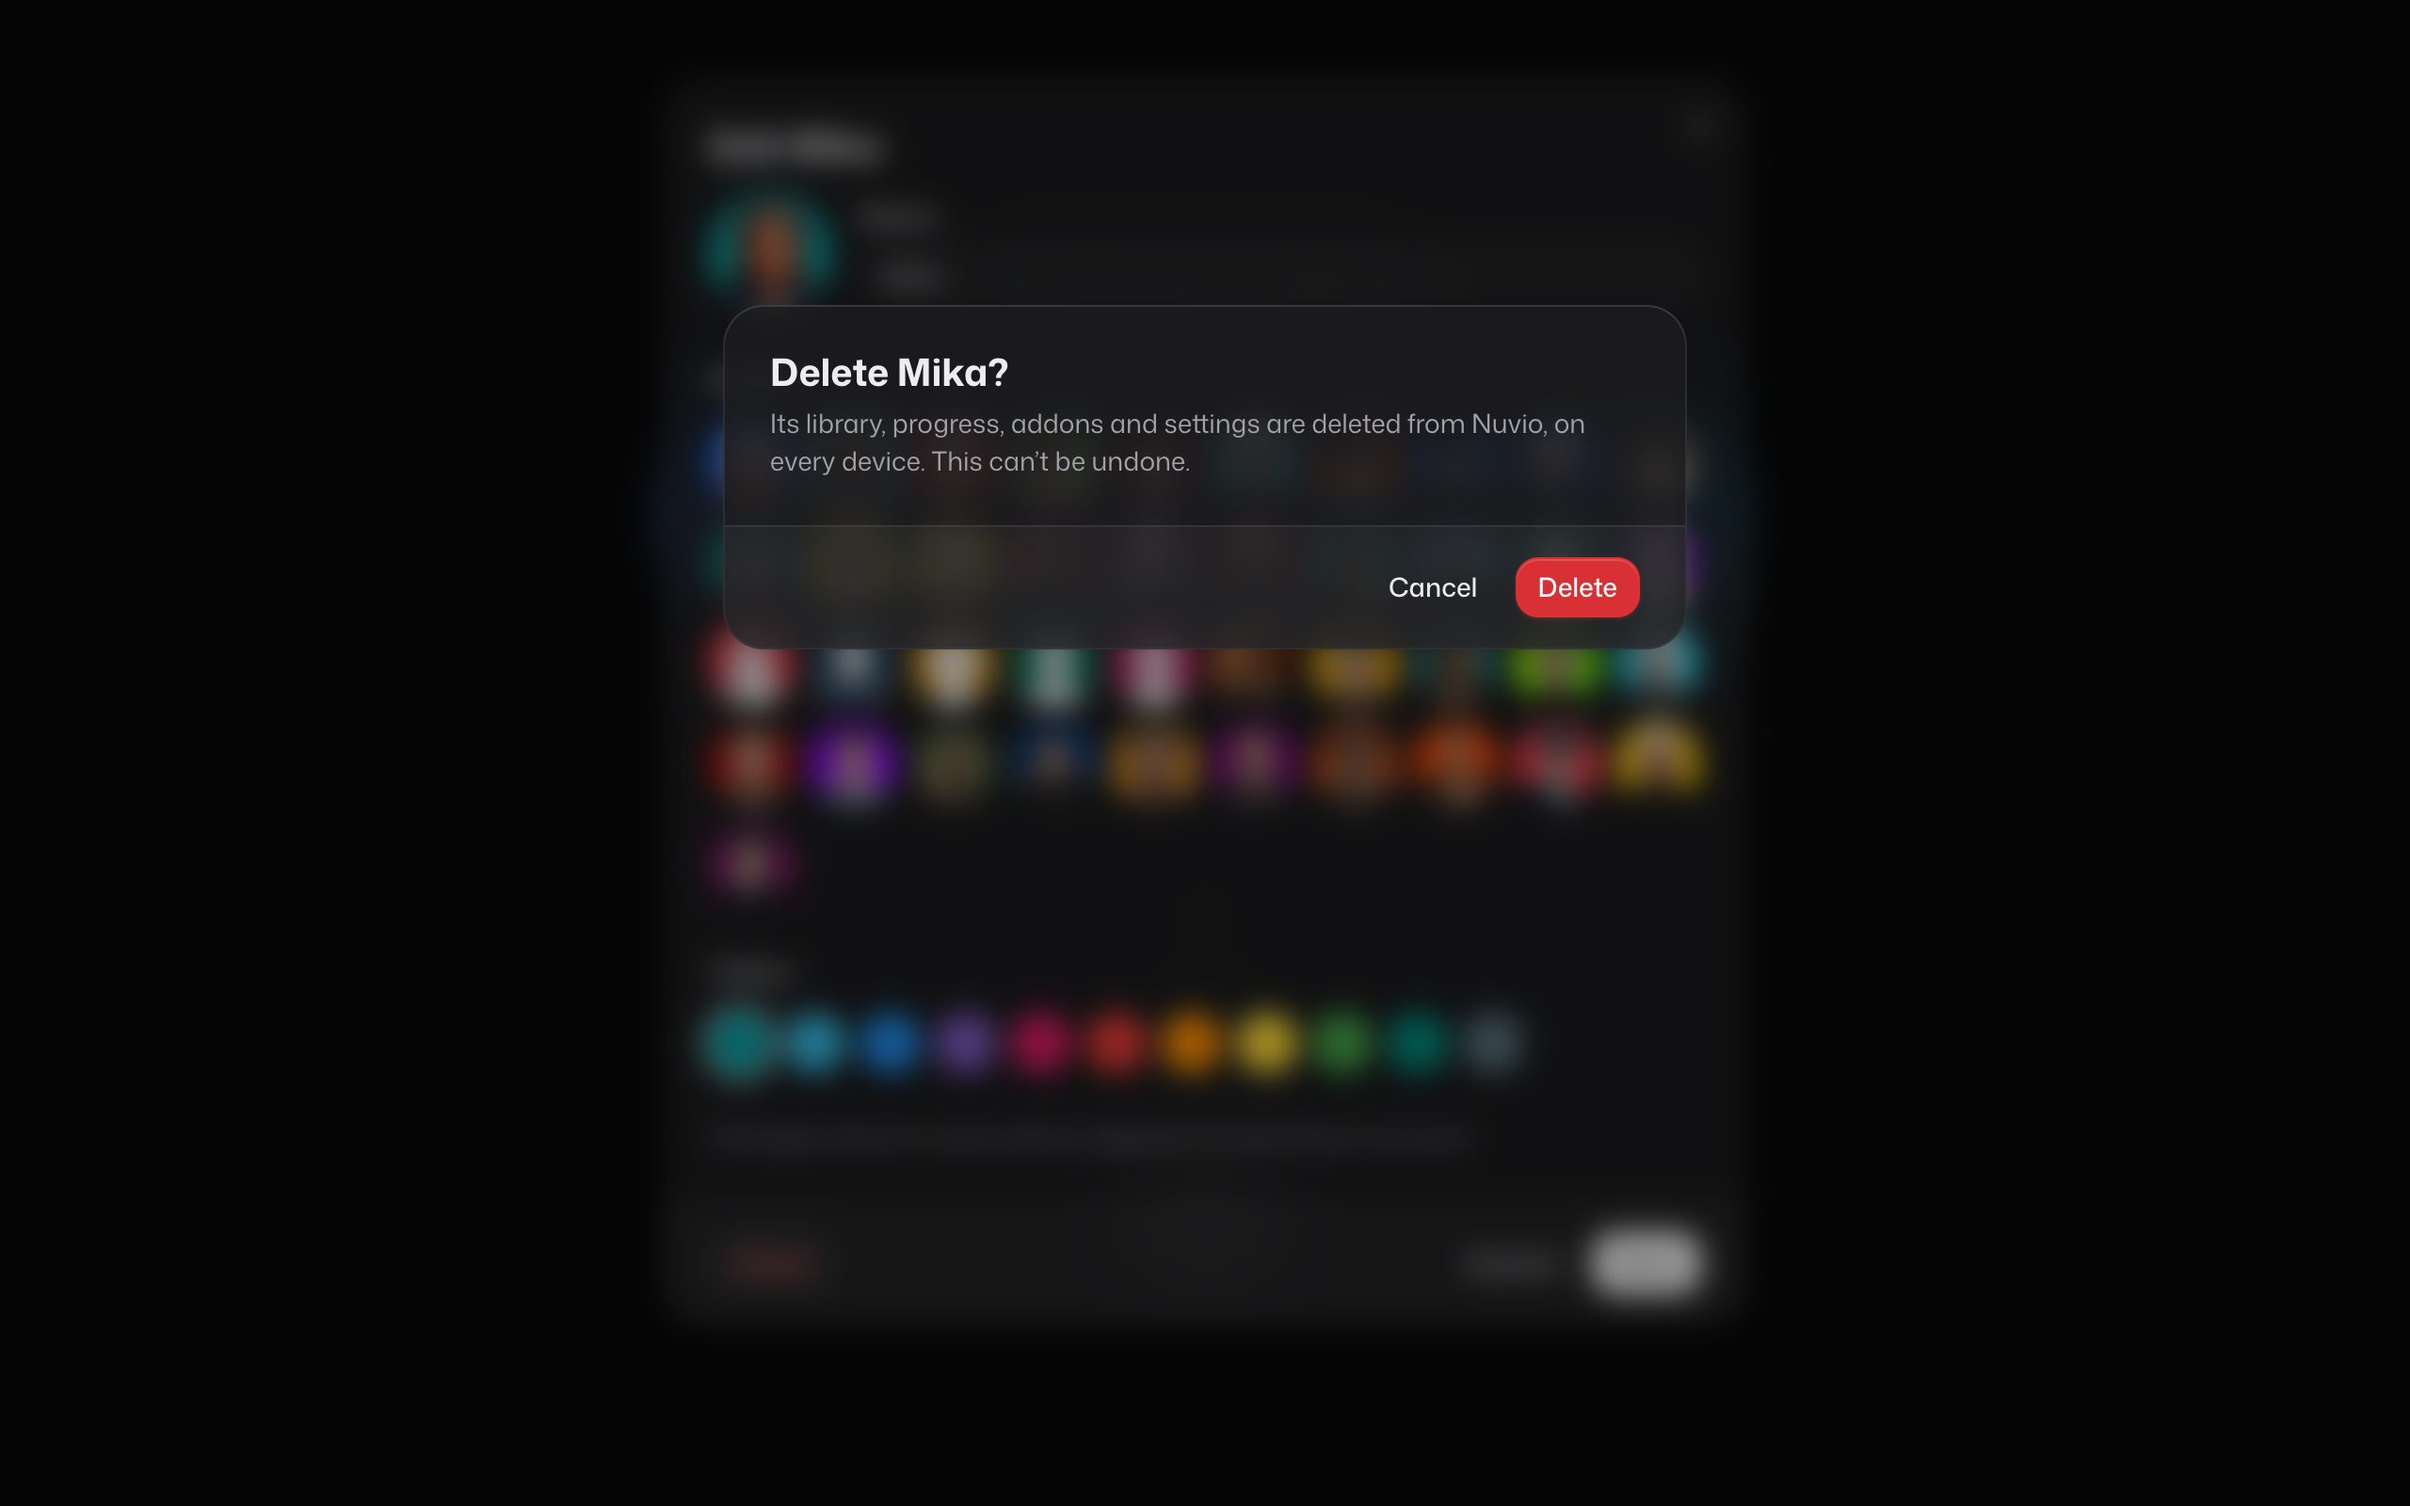
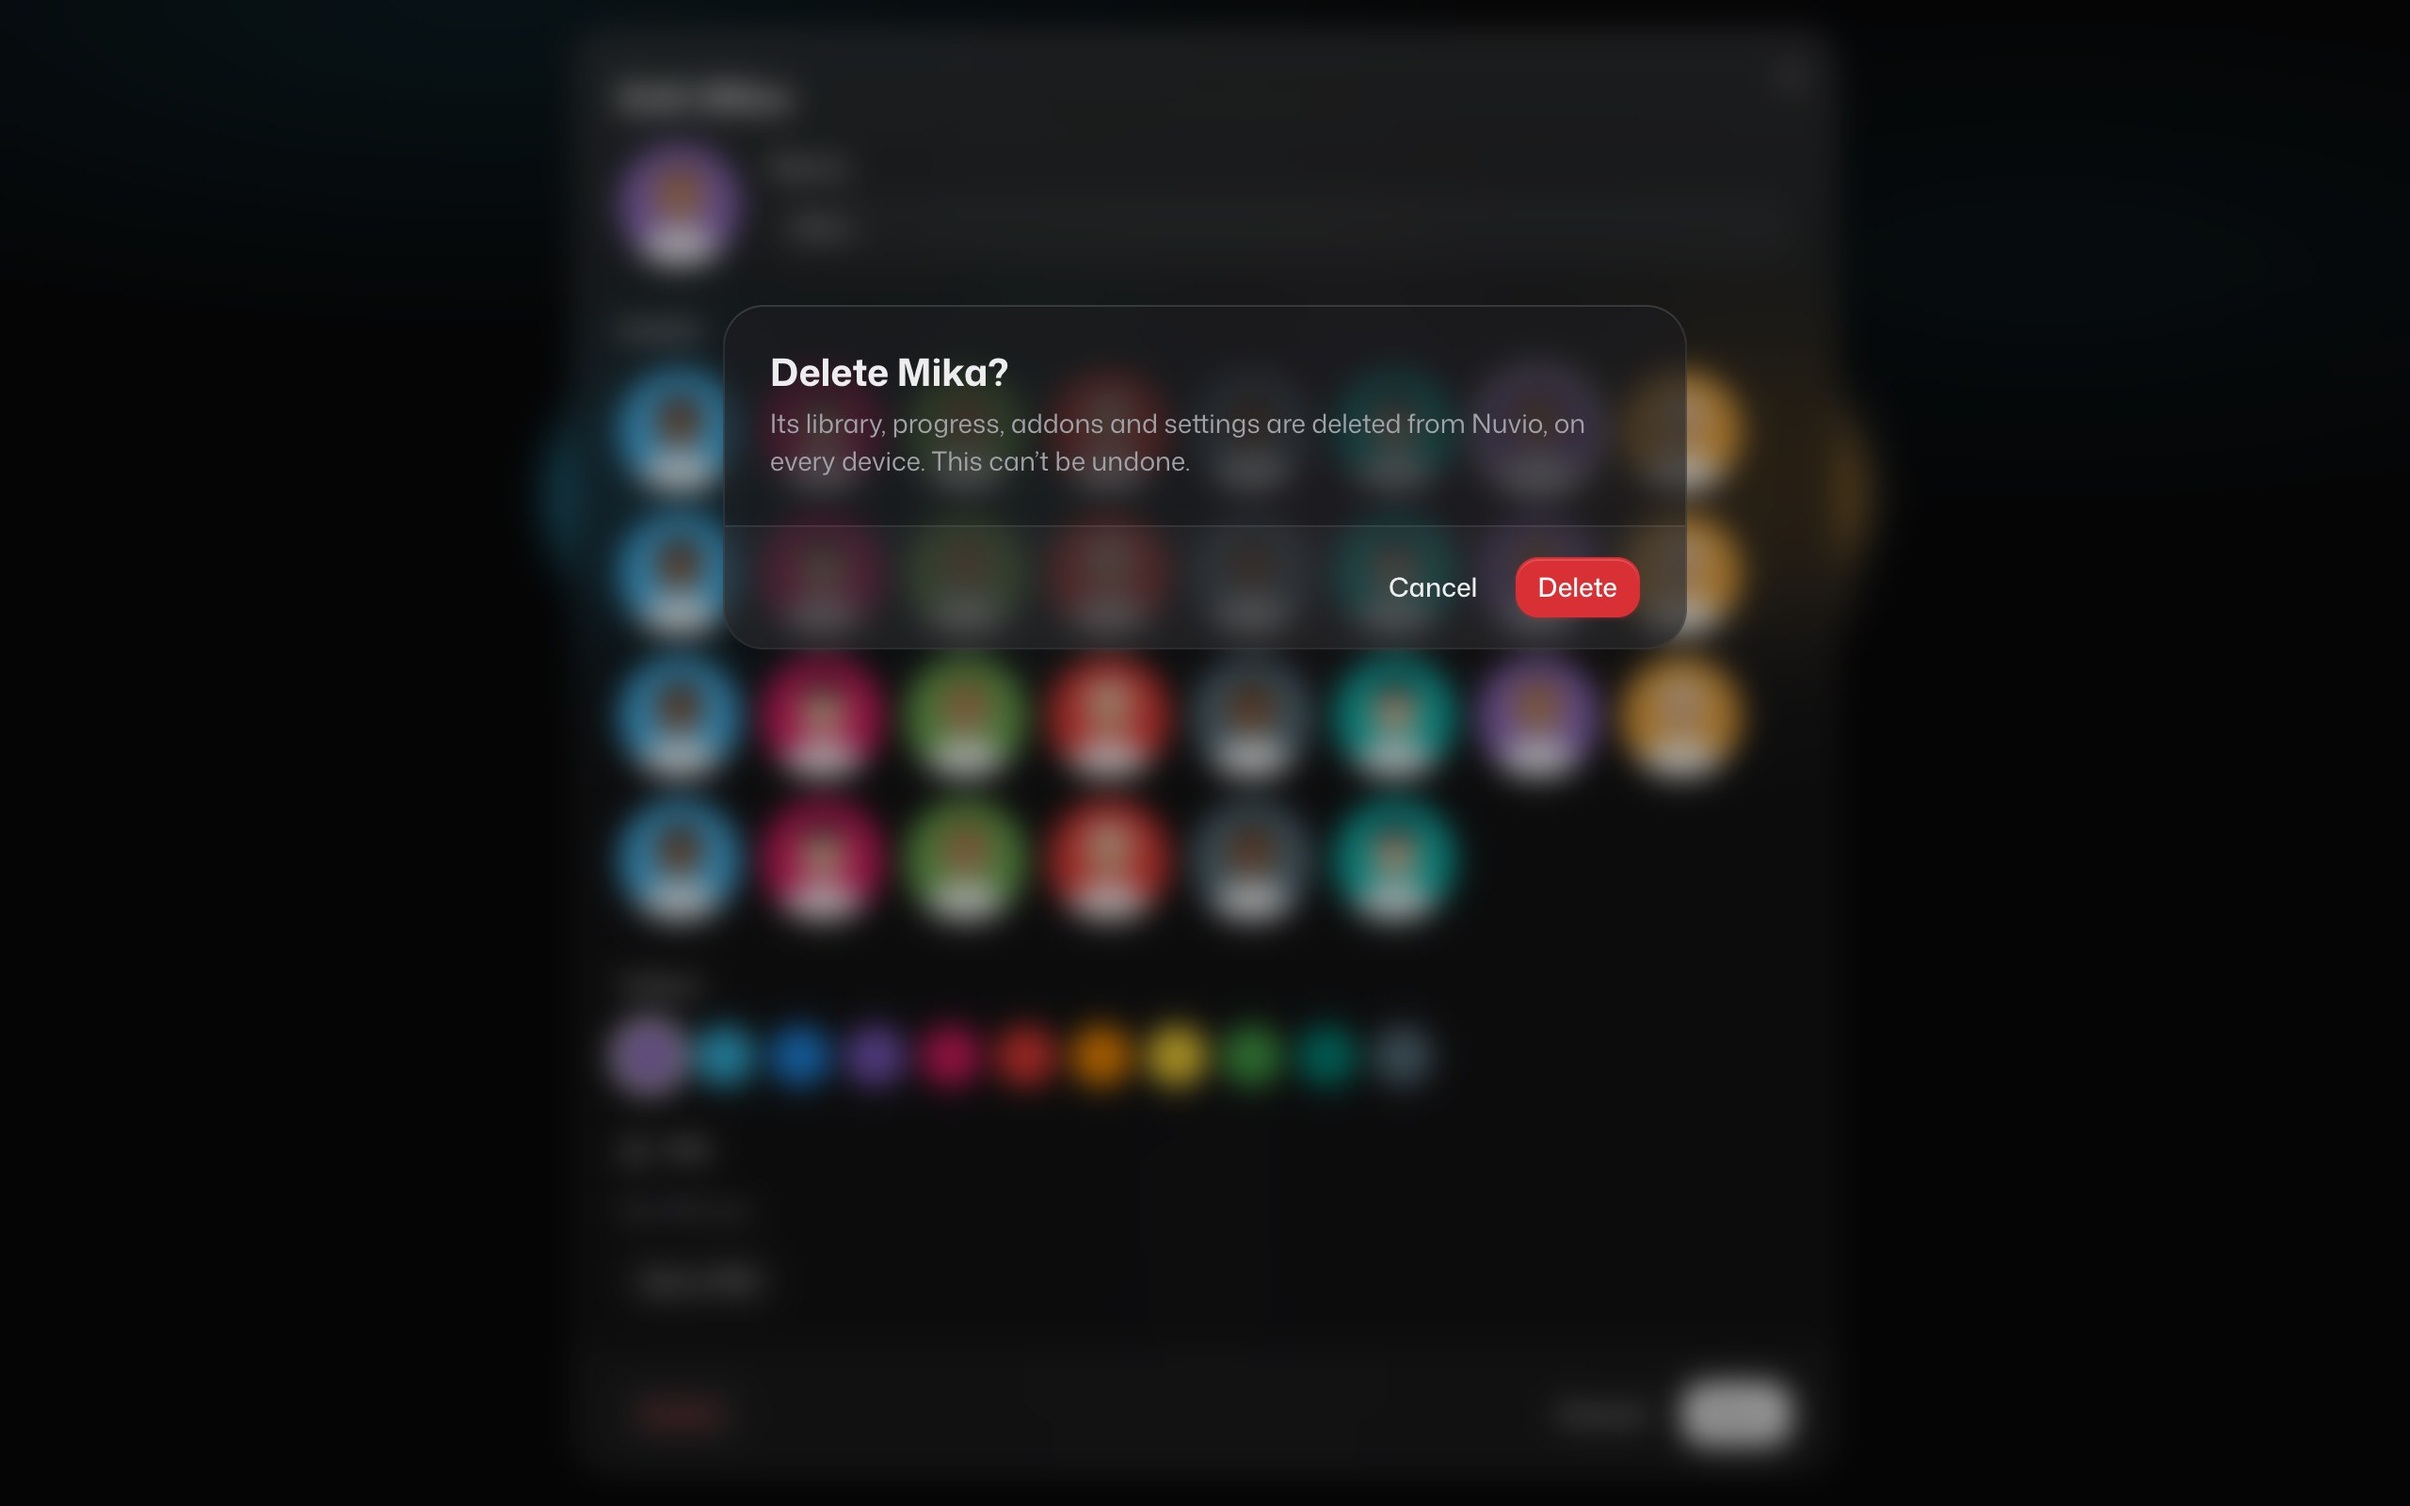
docs(design): welcome, sign-in, QR, picker and PIN screenshots, README section and memory
Re-takes the #20–#24 and #95 screenshots under the same names, adds
before/after pairs, dark and light shots of the new screens and the
PIN keypad, and the focus-screens memory note.

Refs #123

diff --git a/docs/design/README.md b/docs/design/README.md
@@ -326,3 +326,31 @@ Notes from the shots: text inside the bar and the strong-glass overlays is plain
 | Alert dialog, light | ![](popups-alert-light-after.jpg) |
 
 Chrome at 1280×800 (2×) with the Go services stubbed (real Cinemeta meta and art), and a local server standing in for two stream addons (a debrid one and a peer-to-peer one) with made-up releases for the film and an episode. The "before" shots come from the starting commit, the same rig. The picker shows each stream as its quality and source in the row's own name, the addon muted after it, neutral badges, and size and languages in mono at the end; only "Cached" keeps the brand. The alert dialog was not on a glass tier before (the tier rules named only `dialog-popup`), which the before shot shows.
+
+### Welcome, sign-in, QR, profile picker and PIN screens (#123)
+
+The screens before a profile is in use (the `focus` chrome) sit on `Ambient tone="brand"`: the lagoon glow, pulled up under the title bar's strip by `FocusScreen` (`components/account/focus-screen.tsx`), which also centres the content. Forms are `glass-thick` cards (`max-w-md rounded-3xl p-8`) with `h-11 rounded-xl` fields; big actions are pills: the main one solid, the others `glass` (`pillButton` and `glassButton` in the same file). The picker's avatars are `size-32` (`md:size-36`) on `w-40` tiles that lift to 1.05× with `ease-spring` on hover and focus (a brand ring on focus), and the pencil badge is a `glass` circle. PIN keys are `size-16 rounded-full glass-thin` with digits at `text-heading`; four `size-3.5` dots fill with `bg-foreground`, and shake with the toast-error keyframes on a wrong PIN (none under reduced motion).
+
+| | Before | After |
+|---|---|---|
+| Welcome, dark | ![](welcome-dark-before.jpg) | ![](welcome-dark.jpg) |
+| Welcome, light (the guest note) | ![](welcome-guest-light-before.jpg) | ![](welcome-guest-light.jpg) |
+| Sign-in, wrong password, dark | ![](sign-in-wrong-password-dark-before.jpg) | ![](sign-in-wrong-password-dark.jpg) |
+| QR waiting, dark | ![](qr-waiting-dark-before.jpg) | ![](qr-waiting-dark.jpg) |
+| Who's watching, dark | ![](profiles-dark-before.jpg) | ![](profiles-dark.jpg) |
+| Manage profiles, dark | ![](profiles-manage-dark-before.jpg) | ![](profiles-manage-dark.jpg) |
+| Profile editor, light | ![](profile-edit-light-before.jpg) | ![](profile-edit-light.jpg) |
+| Wrong PIN, dark | ![](pin-wrong-dark-before.jpg) | ![](pin-wrong-dark.jpg) |
+
+| | Dark | Light |
+|---|---|---|
+| Sign-in | ![](sign-in-guest-dark.jpg) (with a Guest on the device) | ![](sign-in-light.jpg) |
+| QR waiting: the tile stays black on white | ![](qr-waiting-dark.jpg) | ![](qr-waiting-light.jpg) |
+| QR expired | ![](qr-expired-dark.jpg) | ![](qr-expired-light.jpg) |
+| Who's watching | ![](profiles-dark.jpg) | ![](profiles-light.jpg) |
+| Manage profiles | ![](profiles-manage-dark.jpg) | ![](profiles-manage-light.jpg) |
+| Profile editor (avatars at `size-16`) | ![](profile-edit-dark.jpg) | ![](profile-edit-light.jpg) |
+| Enter PIN, two digits in | ![](pin-entry-dark.jpg) | ![](pin-entry-light.jpg) |
+| Welcome | ![](welcome-dark.jpg) | ![](welcome-guest-light.jpg) |
+
+Every screenshot in the #20–#24 and #95 sections above has been re-taken under the same file name, apart from the ones that are another screen's: `native-welcome-dark.jpg` (the built app), the profile-menu shots (`menu-*`, #122) and the Settings ones (`settings-*`, #120). The sign-in shots are 1280×900 and the session-ended one 1280×1040, since the card is taller than the window; the rest are 1280×800 (2×). They come from a throwaway Vite config with the Go services stubbed and the platform forced to macOS, so the title bar is the real overlay strip. The avatars are drawn for the shots (simple faces on Nuvio's colours), not Nuvio's stock catalog, which needs its key. Contrast: the PIN key digits over thin-on-thick glass are in `contrastPairs` (14.5:1 and 9.5:1 in dark, 13.0 and 17.2 in light over black and white); muted text over the brightest point of the brand glow (brand at 18% over the page) is 5.9:1 in dark and 4.6:1 in light.

diff --git a/.agents/memory/focus-screens.md b/.agents/memory/focus-screens.md
@@ -1,0 +1,18 @@
+---
+name: focus-screens
+description: "#123 FocusScreen wrapper (Ambient + title-bar pull-up), pillButton/glassButton, glass cards, picker tile lift, PIN dots/keypad/shake, screenshot rig with scene stubs"
+metadata:
+  type: project
+---
+
+#123 (redesign epic [[redesign-epic]]) restyled the screens before a profile is in use. `components/account/focus-screen.tsx` holds `FocusScreen` (every one of welcome, sign-in, qr-sign-in, profiles uses it): `relative isolate -mt-(--titlebar-h) pt-(--titlebar-h) min-h-[calc(100%+var(--titlebar-h))]` with `<Ambient tone="brand" />`, so the glow runs under the `focus` chrome's title strip (its `<main>` pads by `--titlebar-h`), and the content column is `flex-1 justify-center` inside. It also exports `pillButton` (h-11 rounded-full, press scale) and `glassButton` (for `variant="ghost"`: `glass` plus `hover:bg-(--glass-regular)`, so the ghost hover doesn't replace the tint; a `hover:before:` wash marks it). Sign-in and QR are one `glass-thick rounded-3xl p-8` card each (Back button above it); the Input's height has to go on the inner input (`rounded-xl [&_input]:h-11 [&_input]:leading-11`), because `className` lands on the wrapper span.
+
+**Why:** the user's Apple TV-style redesign wants the first-run screens to feel like the app, and these screens had no shared wrapper.
+
+**How to apply:**
+- Picker tiles: `tileLift` in `routes/profiles.tsx` (spring to 1.05× on hover/focus-visible, `motion-safe:`) goes on the `relative` span that holds avatar and pencil badge; the brand ring is `group-focus-visible:ring-brand` on the avatar, the current profile keeps `group-aria-current:ring-primary`. Dialog ring offsets in the editor use `ring-offset-transparent` (the dialog is translucent glass now, `ring-offset-popover` would show a seam).
+- PIN: `PinField` keeps the read-only input but visually hidden (`unstyled className="sr-only"`, so the "PIN" textbox tests still work) and shows four `data-slot="pin-dots"` dots; `data-filled` marks the digits in. `shake` (a count, from `PinEntry`'s wrong-PIN counter) is the dots' `key`, so each wrong PIN restarts `motion-safe:animate-toast-error-odd` (±3px, subtle on purpose: the ticket says reuse those keyframes). Keys are `size-16 glass-thin` ghost buttons; glass inside the dialog's glass-thick blurs nothing (backdrop root) and reads as a tint. No `tabular-nums` on the digits: Mona Sans turns it into a slashed-zero look.
+- `PinGate` (locked profile at launch) got the Ambient and a `glass-thick rounded-3xl` card but isn't in the screenshots: reaching it needs the app shell and a locked current profile.
+- Contrast: two "PIN key digit" pairs added to `contrastPairs`. Muted text on the brand glow's peak (18 % brand over the page) is 4.6:1 in light: don't make the glow stronger without checking.
+- Screenshot rig (not committed): `frontend/vite.shot.config.ts` aliasing `@bindings/<service>` to stubs whose `Service` is a Proxy answering `service.Method` from a handlers map keyed by `?scene=`/`?fail=`/`?qr=`/`?offline=`/`?wrongpin=` query params, `@/lib/platform` stubbed to "mac"; routes are hash URLs (`/?scene=picker#/profiles`), clicks via `Runtime.evaluate`. The QR path came from `rsc.io/qr` in a throwaway Go main. Nuvio's avatar catalog needs its anon key, so the shots use drawn SVG avatars. The root route redirects `#/sign-in?reason=…` oddly when `?scene` is in the real query; reach the session-ended page from `#/` with a session-ended account instead.
+- Status (2026-11-06): built and committed on the worker branch, not pushed (Actions down); `pnpm test` not run yet. Tests to watch: `profiles.test.tsx` (new dots/shake case, ambient + badge case), `sign-in.test.tsx` (welcome pills, sign-in card), `qr-sign-in.test.tsx` (white tile in a glass card), `contrast.test.ts`.

diff --git a/.agents/memory/MEMORY.md b/.agents/memory/MEMORY.md
@@ -52,3 +52,4 @@
 - [Settings panes](settings-panes.md) — #120 panes.ts, ?section=, pane list/rail/group/row, last pane for ⌘,, settings-pill element, tests open a pane first
 - [Player glass](player-glass.md) — #121 capsule layout, --above-bar overlay layer, plain-white text rule, centre flash, menu offset, built-app blur check open, shot rig
 - [Picker, Addons and popups](picker-addons-popups.md) — #122 top pick card, stuck group heading overlay, StreamBadge (tailwind-merge gotcha), alert dialog tier, popup sizes, rig with a local stream addon
+- [Focus screens](focus-screens.md) — #123 FocusScreen/pillButton/glassButton, glass cards, picker tile lift, PIN dots + shake, scene-stub screenshot rig
